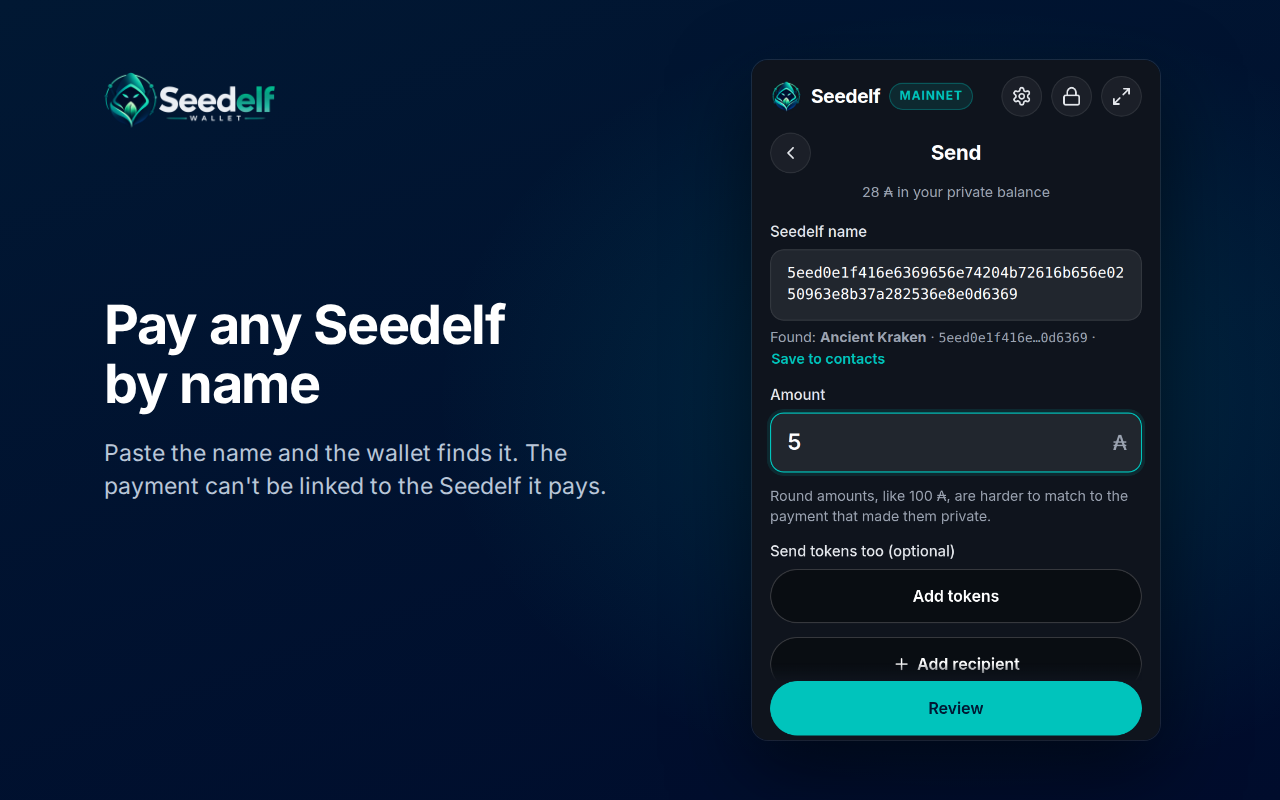
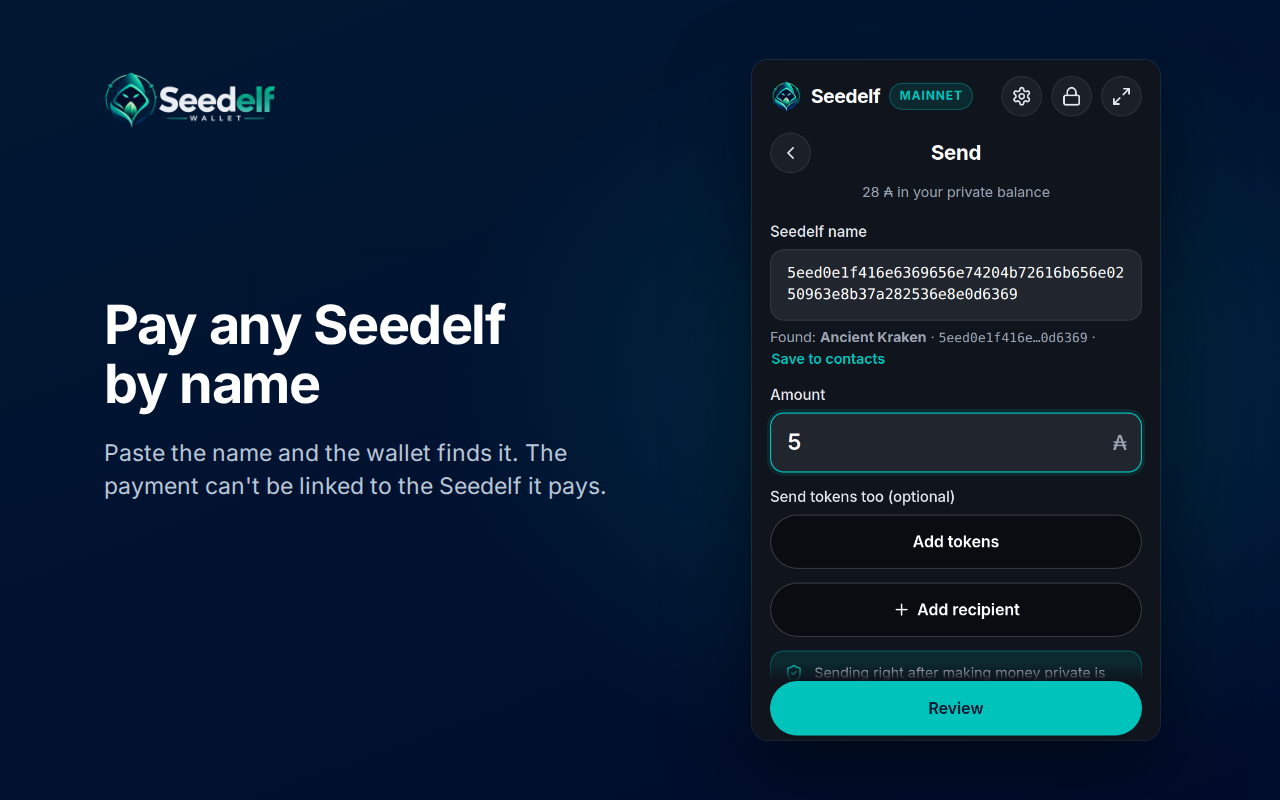
docs(web-wallet): a new listing, and store images that match the wallet again
The owner's call (2026-09-28): a new listing, not an update of the
unlisted preprod item. Recorded with its two consequences — unpublish
the old item once the new one is live, and preprod testers reinstall
and restore, since an install of the old item never updates to the new.

The screenshots were made at 14:21, before the round-amount advice was
cut, so screenshot-2 still showed copy the wallet no longer has. Both
it and screenshot-4 are regenerated: 4 now shows the "own public
account" warning as the bordered block styles.css gives it, which is
what its caption claims. On 2 the bottom privacy callout has moved up
into the fold and sits under the sticky Review button; it reads as
ordinary scrolled content, and is honest about the screen as it is.

Changed region(s): [[0.5938, 0.5938, 0.875, 0.7812], [0.5938, 0.8125, 0.9062, 0.8438]]

diff --git a/seedelf-platform/seedelf-web-wallet/docs/store/README.md b/seedelf-platform/seedelf-web-wallet/docs/store/README.md
@@ -8,7 +8,7 @@ Everything the mainnet listing needs, laid out by the developer dashboard's tabs
 - **Lovejoin is on,** on both networks, for private sessions' returns (a Settings switch turns it off), and says where it's chosen that it has had no third-party audit.
 - **The privacy policy** is [privacy-policy.md](privacy-policy.md) on the `seedelf-web-wallet` branch.
 - **The Privacy practices form** declares *Authentication information* and *Financial and payment information*, and, on this review's reading, *Location* and *Web history* too (see *Data usage* below).
-- **Still the owner's call:** a new listing, or an update of the unlisted preprod item (chunk 11c). **An update, if that item was ever submitted**, otherwise a new listing by default:
+- **Decided (the owner, 2026-09-28): a new listing.** The unlisted preprod item from chunk 11c is not updated. Unpublish it once the new one is live, so two items with the same name don't sit side by side, and tell the preprod testers to reinstall and restore — an install of the old item gets no update to the new one. The trade-off that was weighed:
   - An update keeps one install link and the testers on it. Their wallets stay on preprod: a wallet made before the switch, with no network chosen, is a preprod wallet (`NetworkChoice`), so an update never moves a test wallet to mainnet.
   - Chrome disables the extension for each tester until they accept the new permissions (mainnet's Koios, CoinGecko, `sidePanel`, `scripting`). They keep their wallet; they just have to click through.
   - A new listing leaves two items with the same name unless the old one is unpublished, and every tester has to reinstall and restore.

diff --git a/seedelf-platform/seedelf-web-wallet/docs/plans/launch-review.md b/seedelf-platform/seedelf-web-wallet/docs/plans/launch-review.md
@@ -68,7 +68,7 @@ A second adversarial review, of the fixes themselves, found 30 more issues, all 
    - **Seedelf:** a Seedelf funded from the private balance, and a return merged back into it, are done; the owner reports the other flows working, which the chain hasn't been read for here.
 2. **A validity interval on private spends:** they still have no expiry, until a live check shows giveme.my accepts one.
 3. **The store** (`web-wallet/release-prep`):
-   - a new listing, or an update of the unlisted preprod item: the owner's call, with the trade-off written out in [store/README.md](../store/README.md);
+   - ~~a new listing, or an update of the unlisted preprod item~~ **decided (the owner, 2026-09-28): a new listing**, with the old unlisted item unpublished once it's live (see [store/README.md](../store/README.md));
    - ~~screenshots from mainnet-shaped fixtures~~ **done:** the five show mainnet, with no test-network strip;
    - the *Location* and *Web history* data-usage answers: both recommended checked, reasoning in [store/README.md](../store/README.md);
    - no version bump (1.0.0 is unreleased), then the zip's SHA-256 in the roadmap once the owner packages it.
